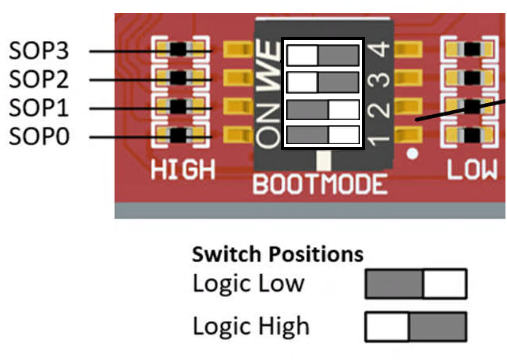
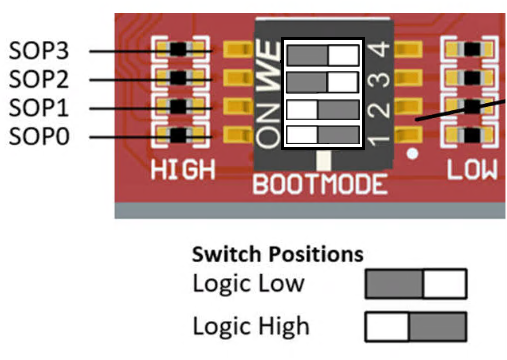
am261x: docs: update documentation
- change bootmode from 8S to 8D as macronix flash supports only 8D
- add info about flashing via JTAG

Fixes: MCUSDK-14351

Changed region(s): [[0.5621, 0.1222, 0.7101, 0.3972]]

diff --git a/docs_src/docs/api_guide/components/tools/tools_flash.md b/docs_src/docs/api_guide/components/tools/tools_flash.md
@@ -901,7 +901,23 @@ The detailed sequence of steps that happen when flashing files is listed below, 
 
 ## JTAG Uniflash {#TOOLS_FLASH_JTAG_UNIFLASH}
 
-JTAG is used as the transport or interface to send the file to flash to the EVM.
+- JTAG(Joint Test Action Group) is used as the transport or interface to send the file to flash to the EVM.
+- It uses a serial protocol to communicate with the DAP (Debug Access Port) on the EVM.
+
+### Sequence of steps that happen when flashing via JTAG
+
+- Debugger initializes the SOC
+  - CCS connects using the JTAG interface and uses gel scripts to initialize PLLs, clocks and memory.
+- Flash driver gets loaded into RAM
+  - A flash programming algorithm is loaded into RAM via JTAG.
+  - This algorithm contains a program that can write to the flash memory.
+- Then your binary (.appimage/.mcelf/.tiimage) is streamed over the JTAG. The driver receives chunks of the application, unlocks the target flash memory regions, erases the sectors and performs flash write operation.
+\if (SOC_AM263X || SOC_AM273X || SOC_AWR294X)
+- Once the JTAG has successfully received the SBL and application binaries, switch to QSPI bootmode and reset the board.
+\else
+- Once the JTAG has successfully received the SBL and application binaries, switch to OSPI bootmode and reset the board.
+\endif
+- ROM bootloader will boot the flashed SBL(secondary bootloader) and the SBL will boot up the application.
 
 ### Important files and folders
 

diff --git a/docs_src/docs/api_guide/device/am261x/am261x_evm_setup.md b/docs_src/docs/api_guide/device/am261x/am261x_evm_setup.md
@@ -72,7 +72,7 @@ This mode is used to boot flashed applications via EVM flash like OSPI flash.
 ##### AM261X-LP
 
 \code
-BOOTMODE [ 1 : 4 ] (SW1) = 0011
+BOOTMODE [ 1 : 4 ] (SW1) = 1100
 \endcode
 
   \imageStyle{am261x_lp_boot_pins_ospi.png,width:30%}